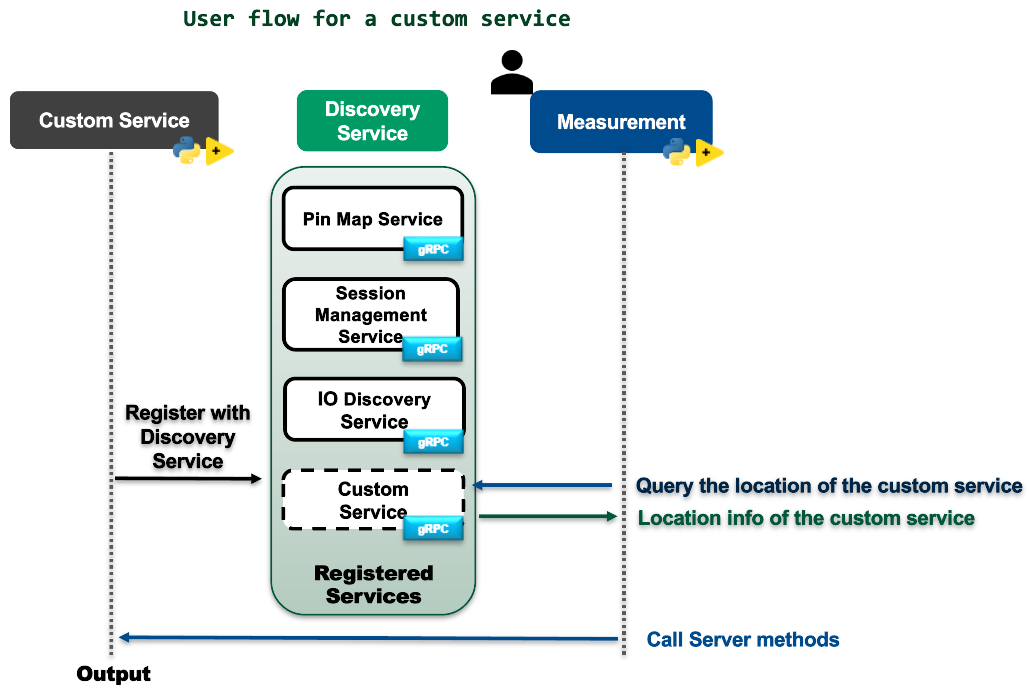
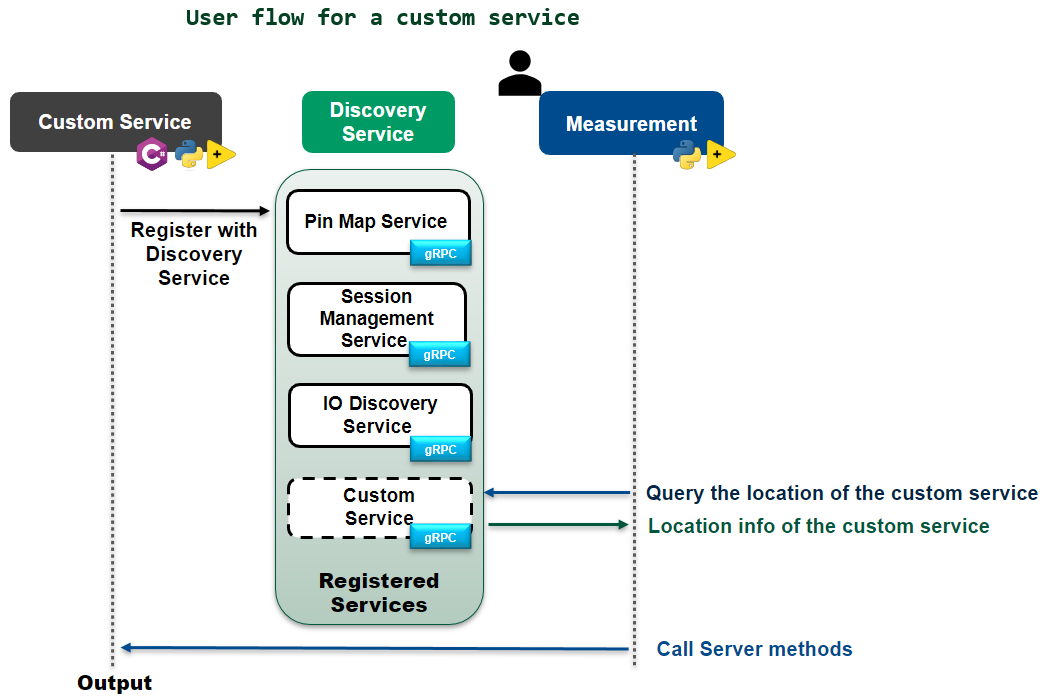
docs: update README to be in a structured and comprehensive format (#9)
* docs: update the README to be in a more structured and easy-to-understand format
* docs: update images in readme

---------

diff --git a/README.md b/README.md
@@ -1,70 +1,79 @@
 # Measurement Plug-In Service Extension Example
 
 - [Measurement Plug-In Service Extension Example](#measurement-plug-in-service-extension-example)
-  - [Custom gRPC Services in Measurement Plug-In framework](#custom-grpc-services-in-measurement-plug-in-framework)
-  - [User Workflow](#user-workflow)
+  - [Custom gRPC Service in Measurement Plug-In](#custom-grpc-service-in-measurement-plug-in)
   - [Required Software](#required-software)
-  - [Steps to create a gRPC service](#steps-to-create-a-grpc-service)
+  - [User flow](#user-flow)
+  - [Steps to create and register a custom gRPC service](#steps-to-create-and-register-a-custom-grpc-service)
     - [Note](#note)
-  - [Creating Python Client Modules](#creating-python-client-modules)
-  - [Creating LabVIEW Client Modules](#creating-labview-client-modules)
+  - [Creating Clients for the custom gRPC Service](#creating-clients-for-the-custom-grpc-service)
+    - [Python](#python)
+    - [LabVIEW](#labview)
 
-## Custom gRPC Services in Measurement Plug-In framework
+## Custom gRPC Service in Measurement Plug-In
 
-The Measurement Plug-In architecture is based on microservices, with components functioning as gRPC
-services. Since gRPC is network-based, it allows these components to be language-agnostic and work
-seamlessly across different programming environments. Any feature extensions or customizations,
-therefore, should also be implemented as gRPC services.
+The Measurement Plug-In architecture is built on a microservices model, with each component
+functioning as a gRPC service. As a network-based protocol, gRPC enables these components to be
+language-agnostic, allowing seamless interoperability across diverse programming environments. This
+approach ensures that any feature extensions or customizations can also be implemented as gRPC
+services.
 
-A user-defined gRPC service is a custom-built service where you define the service methods and
-message types in a `.proto` file, generate client and server code, and implement the server logic.
-Registering this service with the NI Discovery Service allows various clients to access and
-communicate with it over gRPC, making it easy to integrate across technology stacks.
+A user-defined gRPC service is a custom service in which you specify service methods and message
+types in a `.proto` file, generate client and server code, and implement the server logic.
+Registering this service with the NI Discovery Service enables various clients to access and
+communicate with it over gRPC, simplifying integration across technology stacks.
 
-Data loggers are often used to record measurements and debug data during execution. For example, a
-logger implemented in Python might only be compatible with Python-based systems. However, if other
-measurement plug-ins are written in languages like LabVIEW or C#, direct integration may not be
-possible. By converting the logger into a gRPC service and registering it with the NI Discovery
-Service, it becomes accessible to all measurement plug-ins, regardless of language.
-
-## User Workflow
-
-![User Workflow](./docs/images/user_workflow.png)
+This repository includes a sample logger service that demonstrates how a typical data
+logger can be made into a gRPC service. By registering this gRPC-based logger with the NI Discovery
+Service, the provided examples showcase seamless integration, enabling all measurement plug-ins,
+regardless of language (e.g., Python, LabVIEW, or C#), to access the logger service and record
+measurement during execution.
 
 ## Required Software
 
 - [InstrumentStudio 2024
-  Q3](https://www.ni.com/en/support/downloads/software-products/download.instrumentstudio.html#544066)
+  Q4](https://www.ni.com/en/support/downloads/software-products/download.instrumentstudio.html#549673)
   or later
 - [TestStand 2021
   SP1](https://www.ni.com/en/support/downloads/software-products/download.teststand.html#445937) or
   later (recommended)
-- [Python 3.9](https://www.python.org/downloads/release/python-390/) or later
 - [LabVIEW 2021
   SP1](https://www.ni.com/en/support/downloads/software-products/download.labview.html#443865) or
   later
+- [Python 3.9](https://www.python.org/downloads/release/python-390/) or later
 
 Package dependencies:
 
-- [Measurement Plug-In SDK Service for
-  LabVIEW](https://www.vipm.io/package/ni_measurement_plugin_sdk_service/)
-- [Measurement Plug-In SDK Service for
-  Python](https://pypi.org/project/ni_measurement_plugin_sdk_service/)
-  
-## Steps to create a gRPC service
+- [Measurement Plug-In SDK Service for LabVIEW
+  3.1.0.6](https://www.vipm.io/package/ni_measurement_plugin_sdk_service/) or later
+- [Measurement Plug-In SDK Service for Python
+  2.1.0](https://pypi.org/project/ni_measurement_plugin_sdk_service/) or later
 
-  1. Define the gRPC Service and Implement the Server:
-     - Begin by defining a .proto file to specify the service's structure and data types as
-       instructed [here](https://grpc.io/docs/languages/python/basics/#defining-the-service).
-     - Generate the client and server code based on the .proto file.
-     - Implement the gRPC server following the generated code.
-     - Example: See the repository for a gRPC server initialization
-       [example](./src/json_logger/logger_service.py#L53-L71).
-  2. Register the Service with NI Discovery Service:
-     - Use the discovery client from the Python or LabVIEW service package to register the
-       user-defined service with the NI Discovery Service, providing its location details. This
-       registration enables the service to be accessed and utilized within measurement plug-ins.
-     - Example: Implementation of a [Logger service](./src/json_logger/logger_service.py).
+## User flow
+
+![User flow](./docs/images/user_workflow.png)
+
+## Steps to create and register a custom gRPC service
+
+- The flowchart below outlines the steps for creating a custom gRPC service and registering it with
+  the NI Discovery service.
+
+  ![Register service](./docs/images/register_service_flowchart.JPG)
+
+1. Define the gRPC Service and implement the Server:
+   - Begin by defining a `.proto` file to specify the service structure and data types, following
+    the instructions provided
+    [here](https://grpc.io/docs/languages/python/basics/#defining-the-service).
+   - Generate the client and server code based on the `.proto` file.
+   - Implement the gRPC server using the generated code.
+   - Refer to the repository for an example of gRPC server initialization
+    [here](./src/json_logger/logger_service.py#L53-L71).
+2. Register the Service with the NI Discovery Service:
+   - Use the discovery client from the Python or LabVIEW service package to register the
+    user-defined service with the NI Discovery Service, providing its location details. This
+    registration enables the service to be accessed and utilized within measurement plug-ins.
+   - See the example implementation of the [logger service](./src/json_logger/logger_service.py)
+    for reference.
 
 ### Note
 
@@ -75,36 +84,37 @@ Package dependencies:
   across multiple machines without the need to modify client configurations. This approach results
   in more robust and maintainable deployments.
 
-  The following **flow chart** outlines the steps required to create a user-defined service and
-  registering it with the NI Discovery service.
-  
-  ![Register logger service](./docs/images/register_service_flowchart.JPG)
+## Creating Clients for the custom gRPC Service
 
-## Creating Python Client Modules
+- The flowchart below details the steps necessary to integrate a user-defined service into
+  the measurement service.
+
+  ![Resolve logger service](./docs/images/resolve_service_flowchart.JPG)
+
+### Python
 
 - Generate the client stubs for the user-defined service.
-- Refer to the [instructions](https://grpc.io/docs/languages/python/basics/#creating-a-stub) to
-  create a stub.
+- Refer to the instructions provided
+  [here](https://grpc.io/docs/languages/python/basics/#creating-a-stub) to create a stub.
 - Create a client module to establish a connection with the user-defined service from the python
   measurements.
 - Define Service Interface and Service Class Names inside the module.
 - Create a class that abstracts the methods from the generated client stubs to interact with the
   service.
-- Use a discovery client to resolve the service location.
+- Resolve the service location using the discovery client.
 - Establish a gRPC channel to the service and create a stub for making API calls.
 - Define methods in the client class to call the service methods, constructing and sending requests
   as needed.
-- Example: [Establish connection to custom logger service in
-  python](./examples/python_measurement/logger_service_client.py).
+- Example: [logger_service_client.py](./examples/python_measurement/logger_service_client.py).
 
-## Creating LabVIEW Client Modules
+### LabVIEW
 
 - Install gRPC and LabVIEW gRPC Server and Client tool packages.
   - Refer to this
-    [link](https://github.com/ni/grpc-labview/blob/master/docs/QuickStart.md#labview-grpc) for
+    [document](https://github.com/ni/grpc-labview/blob/master/docs/QuickStart.md#labview-grpc) for
     installation instructions.
 
-- Generate client interfaces from the .proto file to communicate with the service methods using the
+- Generate client interfaces from the `.proto` file to communicate with the service methods using the
   `gRPC Server-Client [2] - Code Generator`.
   
   ![gRPC Server Client Generator](./docs/images/gRPC_Server_Client_Generator.png)
@@ -117,11 +127,11 @@ Package dependencies:
     - Provide the gRPC service interface and class names as inputs to the Resolve Service API to
       retrieve the port where the user-defined service is running.
   - Create a Discovery Client:
-    - Instantiate a DiscoveryClient to resolve the service location.
+    - Instantiate a `DiscoveryClient` to resolve the service location.
 
-  Example:
+  - Example:
   
-  ![Establish Connection](./docs/images/establish_connection.png)
+    ![Establish Connection](./docs/images/establish_connection.png)
 
 - In addition to establishing the connection, create a VI to call the service APIs using the gRPC ID
   obtained from the output of the previous VI.
@@ -129,18 +139,13 @@ Package dependencies:
   - The client then calls the Service APIs by obtaining the request models from the measurement
     service.
 
-  Example:
+  - Example:
   
-  ![Call Service Methods](./docs/images/call_apis.png)
+    ![Call Service Methods](./docs/images/call_apis.png)
 
 - Finally, Create a VI to ensure that the client is properly closed without any open connections and
   all associated resources are released for the client.
 
-  Example:
-  
-  ![Call Service Method](./docs/images/destroy_client.png)
+  - Example:
 
-The following **flow chart** details the steps necessary to integrate a user-defined service into
-  the measurement service.
-
-![Resolve logger service](./docs/images/resolve_service_flowchart.JPG)
+    ![Call Service Method](./docs/images/destroy_client.png)
